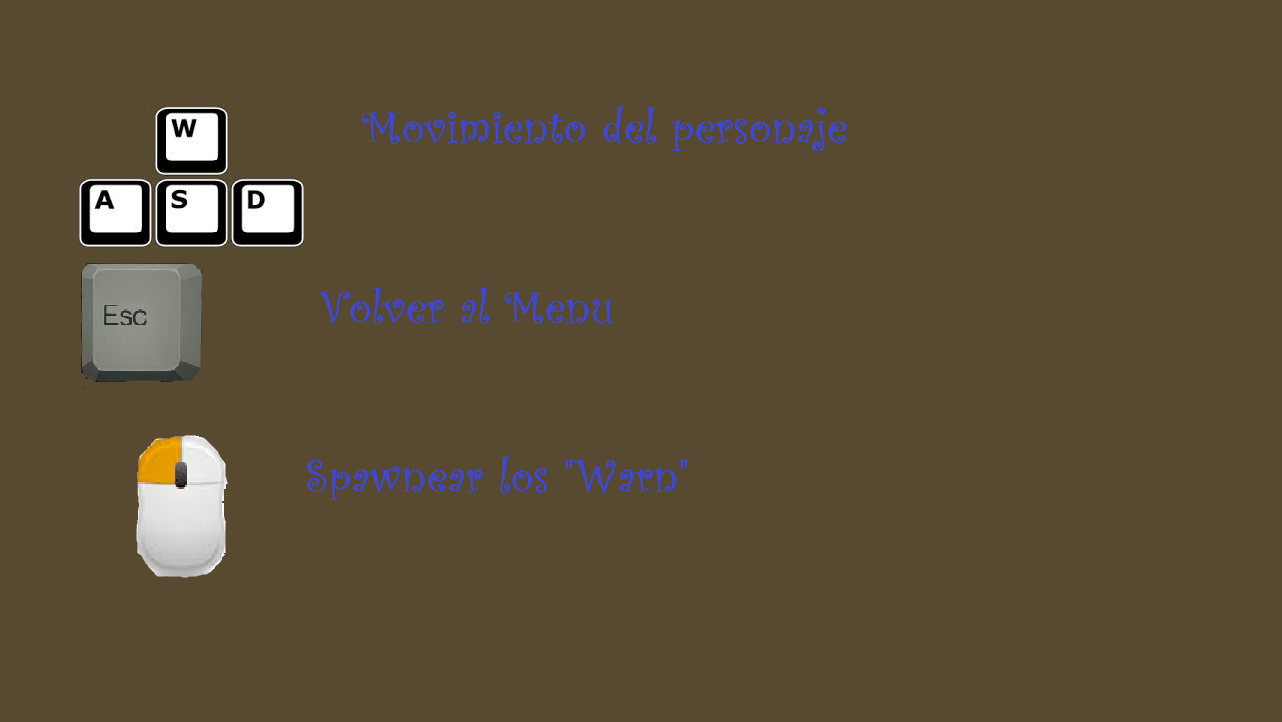
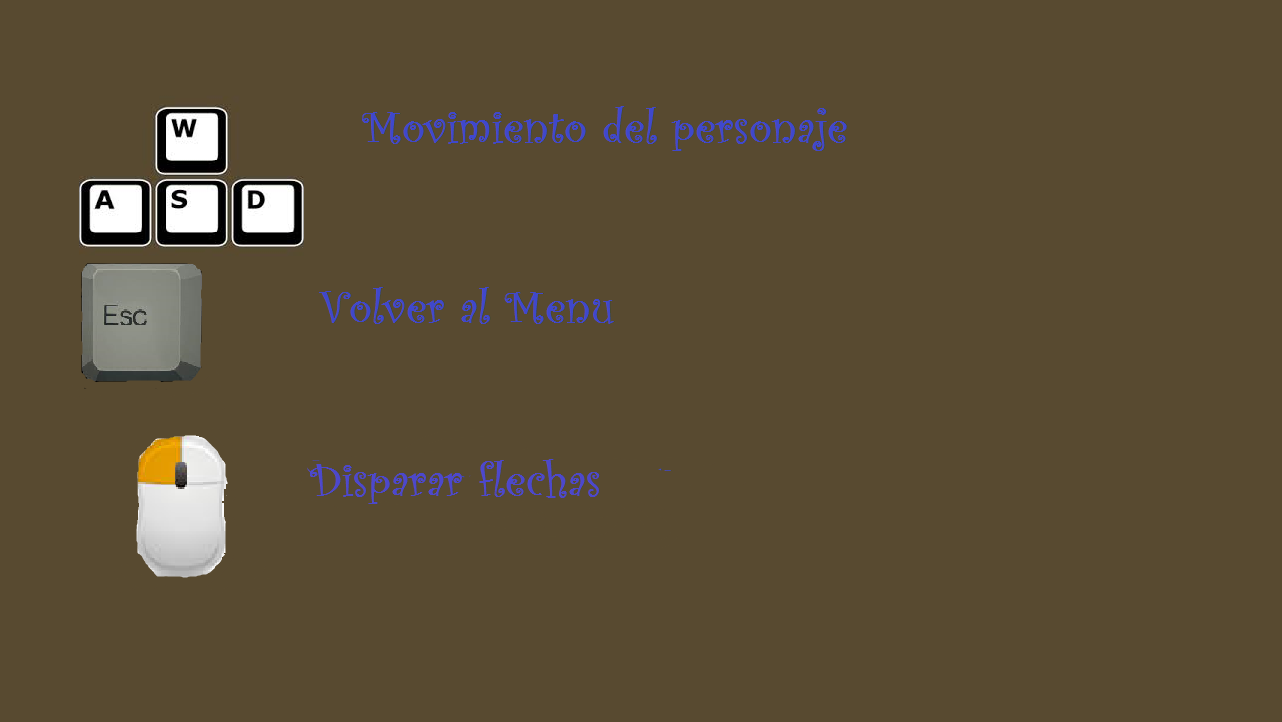
Merge de main angulo y main charselect
ahora el personaje tira flechas y el sprite se mueve en todas
direcciones.
intento de cargar sprite que tira flecha (necesito lo de los angulos :C)

Changed region(s): [[0.2184, 0.6399, 0.5304, 0.7008]]

diff --git a/main - angulo - charselect.py b/main - angulo - charselect.py
@@ -8,7 +8,7 @@ warning=pygame.image.load(os.path.join("media","warn.png"))
 ven=pygame.display.set_mode((dimx,dimy),pygame.FULLSCREEN)
 warning.convert()
 pygame.display.set_caption("Adit Games: Game 1") #Inicia el nombre de juego
-background = pygame.image.load(os.path.join("media","background_resized.png"))
+background = pygame.image.load(os.path.join("media","menu.png"))
 backgroundrect = background.get_rect()
 background = background.convert()  
 ven.blit(background,(0,0))
@@ -33,7 +33,7 @@ creditos = False
 instructions = False
 menuloop=True
 charselect=False
-pausa = False
+pausa=False
 FPS = 65                 #FPS dejemos la caga con los fps :D okno C:
 playtime = 0
 cycletime = 0
@@ -42,6 +42,7 @@ picnr = 0
 posx=300;posy=300 #posiciones de img
 der= False;aba=False;izq=False;arr= False # variables de movimiento en falso
 standf=True;standb=False #detenido hacia adelante o atras
+balas=[]
 while menuloop:
     if cambiarmusica==True:
         pygame.mixer.Sound.stop(test)
@@ -88,7 +89,7 @@ while menuloop:
             cambiarmusica = False
         mouspos=pygame.mouse.get_pos()
 
-        #los personajes se mueven en el menu de seleccion de personajes :P
+        #los personajes se mueven en el menu :P
         posx=300;posy=300
         spritesheet = pygame.image.load(os.path.join("media","Arq44x76.png"))
         spritesheet.convert()
@@ -118,7 +119,7 @@ while menuloop:
             if event.type == pygame.KEYDOWN:
                 if event.key == pygame.K_ESCAPE:
                     cambiarmusica=True
-                    creditos = False;background = pygame.image.load(os.path.join("media","background_resized.png"))
+                    creditos = False;background = pygame.image.load(os.path.join("media","menu.png"))
                     charselect = False
                     ven.blit(background,(0,0))
             if event.type == pygame.MOUSEBUTTONDOWN:
@@ -152,7 +153,7 @@ while menuloop:
         for event in pygame.event.get():
             if event.type == pygame.KEYDOWN:
                 if event.key == pygame.K_ESCAPE:
-                    creditos = False;background = pygame.image.load(os.path.join("media","background_resized.png"))
+                    creditos = False;background = pygame.image.load(os.path.join("media","menu.png"))
                     background.convert()
                     ven.blit(background,(0,0))
         pygame.display.flip()
@@ -162,7 +163,7 @@ while menuloop:
         for event in pygame.event.get():
             if event.type == pygame.KEYDOWN:
                 if event.key == pygame.K_ESCAPE:
-                    instructions = False;background = pygame.image.load(os.path.join("media","background_resized.png"))
+                    instructions = False;background = pygame.image.load(os.path.join("media","menu.png"))
                     background.convert()
                     ven.blit(background,(0,0))
         pygame.display.flip()
@@ -181,6 +182,15 @@ while menuloop:
         mouspos=pygame.mouse.get_pos()
         centrx,centry=(posx+sprtx/2), (posy+sprty/2)
         dx, dy = mouspos[0]-centrx, mouspos[1]-centry
+
+        #proyectiles!!!
+        nb=0
+        for prr in balas:
+            prr.mover()
+            if prr.comprovar() == False:
+                #ven.blit(background.subsurface((prr.posx,prr.posy,prr.prox,prr.proy)),(prr.posx,prr.posy))
+                delete=balas.pop(nb)
+            nb+=1
         #condicionales de stand y direccion
         if (der and izq and arr and aba) == False:
             standf=True
@@ -248,6 +258,35 @@ while menuloop:
                 if picnr >= 6:
                     picnr = 4
 
+            if (der and pygame.mouse.get_pressed()[0]) or (aba and pygame.mouse.get_pressed()[0]):
+                picnr = 6
+                ven.blit(background.subsurface((posx,posy,sprtx,sprty)),(posx,posy)) 
+                ven.blit(mypicture, (posx,posy))
+                #picnr = 6
+                pygame.mixer.Sound.play(paso) #reproduce el sonido de los pasos cuando caminas
+                
+            if (izq and pygame.mouse.get_pressed()[0]) or (aba and izq and pygame.mouse.get_pressed()[0]):
+                picnr = 16
+                ven.blit(background.subsurface((posx,posy,sprtx,sprty)),(posx,posy)) 
+                ven.blit(mypicture, (posx,posy))
+                #picnr = 6
+                pygame.mixer.Sound.play(paso) #reproduce el sonido de los pasos cuando caminas
+                
+            if (izq and arr and pygame.mouse.get_pressed()[0]) or (arr and pygame.mouse.get_pressed()[0]):
+                picnr = 7
+                ven.blit(background.subsurface((posx,posy,sprtx,sprty)),(posx,posy)) 
+                ven.blit(mypicture, (posx,posy))
+                #picnr = 6
+                pygame.mixer.Sound.play(paso) #reproduce el sonido de los pasos cuando caminas
+                
+            if (der and arr and pygame.mouse.get_pressed()[0]):
+                picnr = 17
+                ven.blit(background.subsurface((posx,posy,sprtx,sprty)),(posx,posy)) 
+                ven.blit(mypicture, (posx,posy))
+                #picnr = 6
+                pygame.mixer.Sound.play(paso) #reproduce el sonido de los pasos cuando caminas
+            
+
             cycletime = 0
 
         for event in pygame.event.get():
@@ -276,7 +315,8 @@ while menuloop:
             elif event.type == pygame.MOUSEBUTTONDOWN:
                 if pygame.mouse.get_pressed()[0]==True:
                     ven.blit(warning,(random.randint(0,dimx),random.randint(0,dimy)))
-                    print 'angulo es ' , angulo(dx,dy)
+                    balas.append(proyect(ven,posx,posy,9,background,direccion(angulo((mouspos[0]-centrx),(mouspos[1]-centry)))))
+                    balas[len(balas)-1].poner()
                     pygame.mixer.Sound.play(click1)
         if der and posx<(dimx-sprtx):
             ven.blit(background.subsurface((posx,posy,sprtx,sprty)),(posx,posy))#limpia y redibuja
@@ -324,7 +364,7 @@ while menuloop:
                         # pausa=False
                     elif (540<mouspos[0]<741)and (419<mouspos[1]<448):#MainMenu
                         pygame.mixer.Sound.play(click1)
-                        background = pygame.image.load(os.path.join("media","background_resized.png"))
+                        background = pygame.image.load(os.path.join("media","menu.png"))
                         background.convert()
                         ven.blit(background,(0,0))
                         pausa=False
